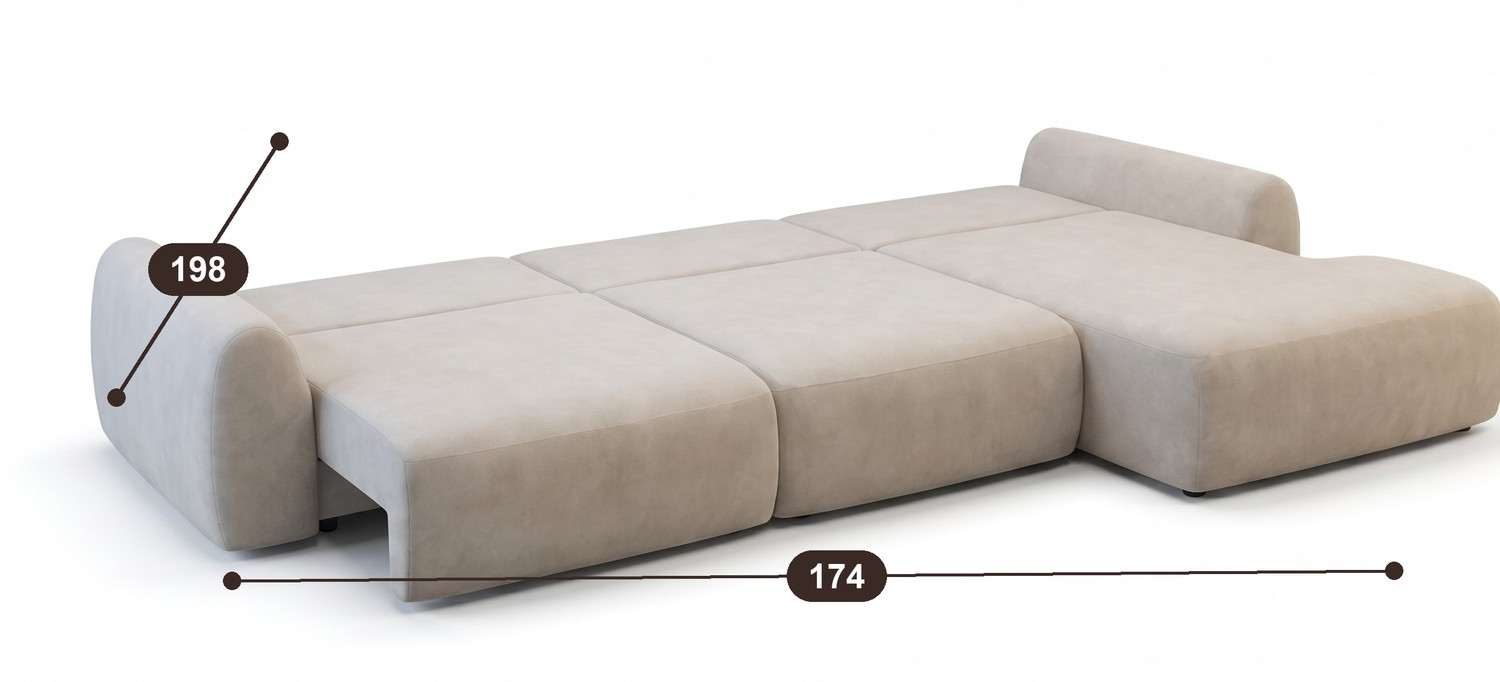
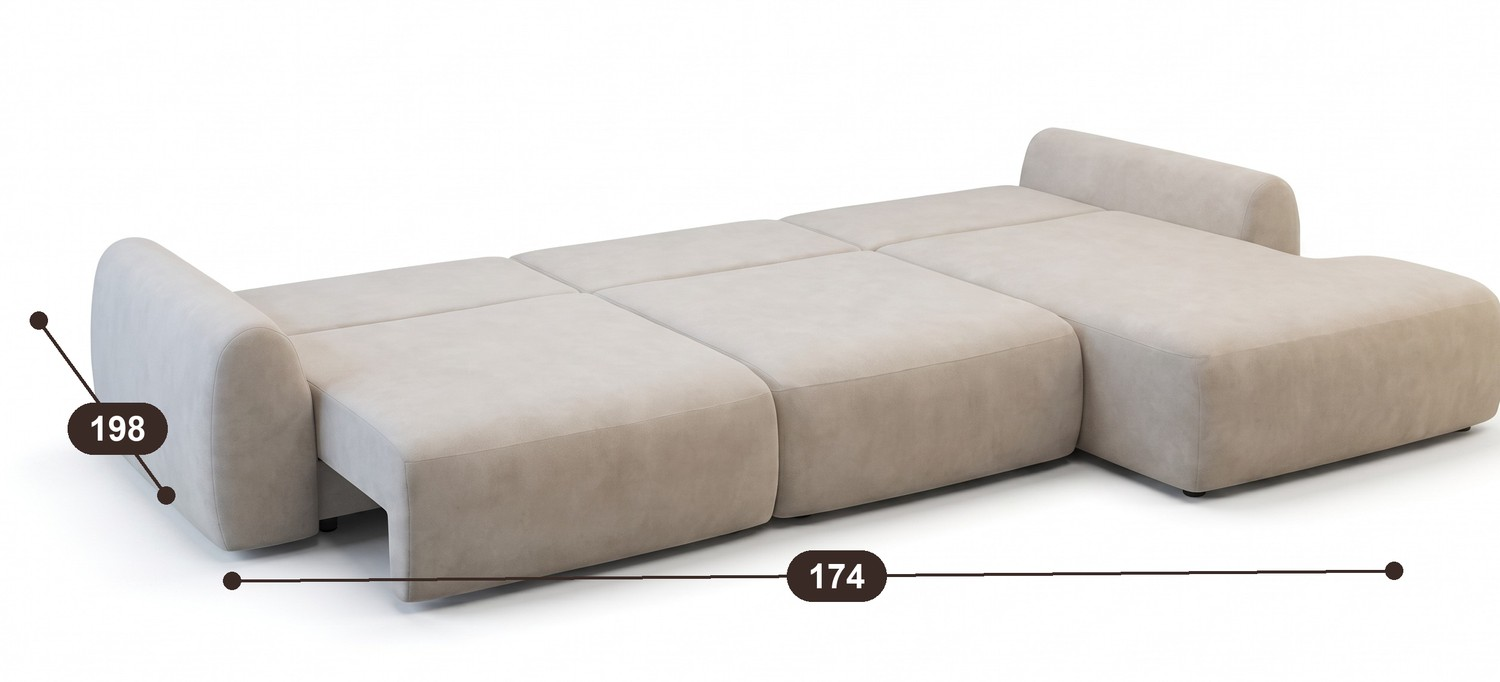
Джой 7 ДКУ-О: слайд «Размеры — разложенный» — глубина 198 диагональю «\» по референсу
Наклон диагонали глубины на нижней панели развёрнут в «\» (снизу-слева
в белом поле), как на образце Олега. Положение остальных линий (377, 180, 174)
не менялось. Кружки на концах + плашка — без изменений.

diff --git a/tools/render-joy-7-dims.py b/tools/render-joy-7-dims.py
@@ -100,13 +100,12 @@ dim_explicit(d, (2560, 795), (2668, 652), anchors=((2440, 1035), (2548, 892)),
 save_draft(im, "folded")
 
 # ================= UNFOLDED (по образцу Олега) =================
-# ширина спального 174 — прямой линией ПОД платформой во всю ширину, от края до края;
-# глубина 198 — короткой диагональю у левого торца снизу-слева. Расположение как в прошлой версии,
-# менять не нужно (Олег: "расположение линий менять не нужно, просто проставь размеры").
+# ширина спального 174 — прямой линией ПОД платформой во всю ширину (без изменений);
+# глубина 198 — короткая диагональ снизу-слева в белом поле, наклон "\" как на референсе Олега.
 im, d, font = load("unfolded")
 dim(d, (420, 995), (2380, 978), 165, '+y', "174", font, pill_t=0.52)
-dim_explicit(d, (226, 850), (501, 418), anchors=((445, 990), (720, 558)),
-             label="198", font=font, pill_t=0.5)
+dim_explicit(d, (95, 720), (310, 1015), anchors=((95, 720), (310, 1015)),
+             label="198", font=font, pill_t=0.62)
 save_draft(im, "unfolded")
 
 
